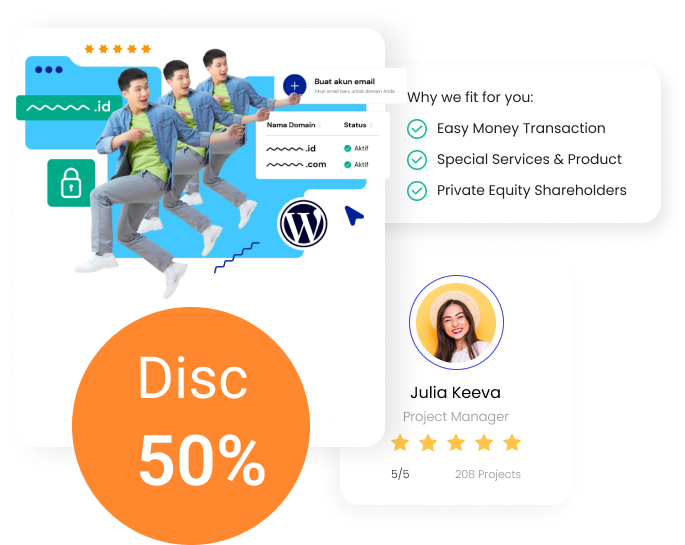
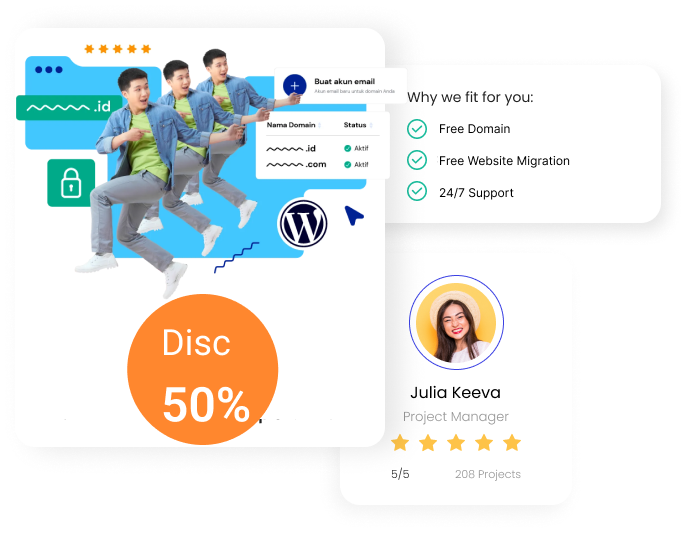
init 4

diff --git a/pages/index.vue b/pages/index.vue
@@ -50,7 +50,7 @@
           <div class="step-content">
             <h3 class="font-medium">Sign Up</h3>
             <p class="font-light">
-              Sign Up account and start <br />funding project
+              Sign Up account and start <br />
             </p>
           </div>
         </div>
@@ -59,10 +59,9 @@
             <img src="/step-2-illustration.svg" alt="" class="h-30 mb-8" />
           </figure>
           <div class="step-content">
-            <h3 class="font-medium">Open Project</h3>
+            <h3 class="font-medium">Create Your Idea</h3>
             <p class="font-light">
-              Choose some project idea, <br />
-              and start funding
+              Choose your plan <br />
             </p>
           </div>
         </div>
@@ -74,7 +73,7 @@
             <h3 class="font-medium">Execute</h3>
             <p class="font-light">
               Time to makes dream <br />
-              comes true
+              Your Site live
             </p>
           </div>
         </div>
@@ -203,8 +202,8 @@
         </div>
         <div class="w-8/12 mt-16">
           <h2 class="text-3xl text-gray-900 font-light">
-            “Funding at Bucker is very easy and comfortable. <br />
-            Just need to find an idea, click and already funding.”
+            “Man, you guys are awesome. Thanks for the prompt service. <br />
+            I can see that I made the right choice in webhosts..”
           </h2>
           <div class="testimonial-info mt-8">
             <div class="name text-xl font-semibold">Shopie Nicole</div>

diff --git a/components/Footer.vue b/components/Footer.vue
@@ -2,8 +2,8 @@
     <footer class="bg-purple-progress py-20 text-white text-lg">
       <div class="container mx-auto">
         <div class="sm:flex mb-4">
-          <div class="sm:w-1/2 sm:mt-0 mt-8 h-auto">
-            <img src="/logo-footer.svg" alt="" class="mb-3" />
+          <div class="sm:w-1/2 sm:mt-0 mt-8 h-auto ml-6">
+            <div class="mb-3 text-4xl">Bhosting</div>
             <p class="font-light">
               Watch your ideas come to life.
  <br />bright ideas
